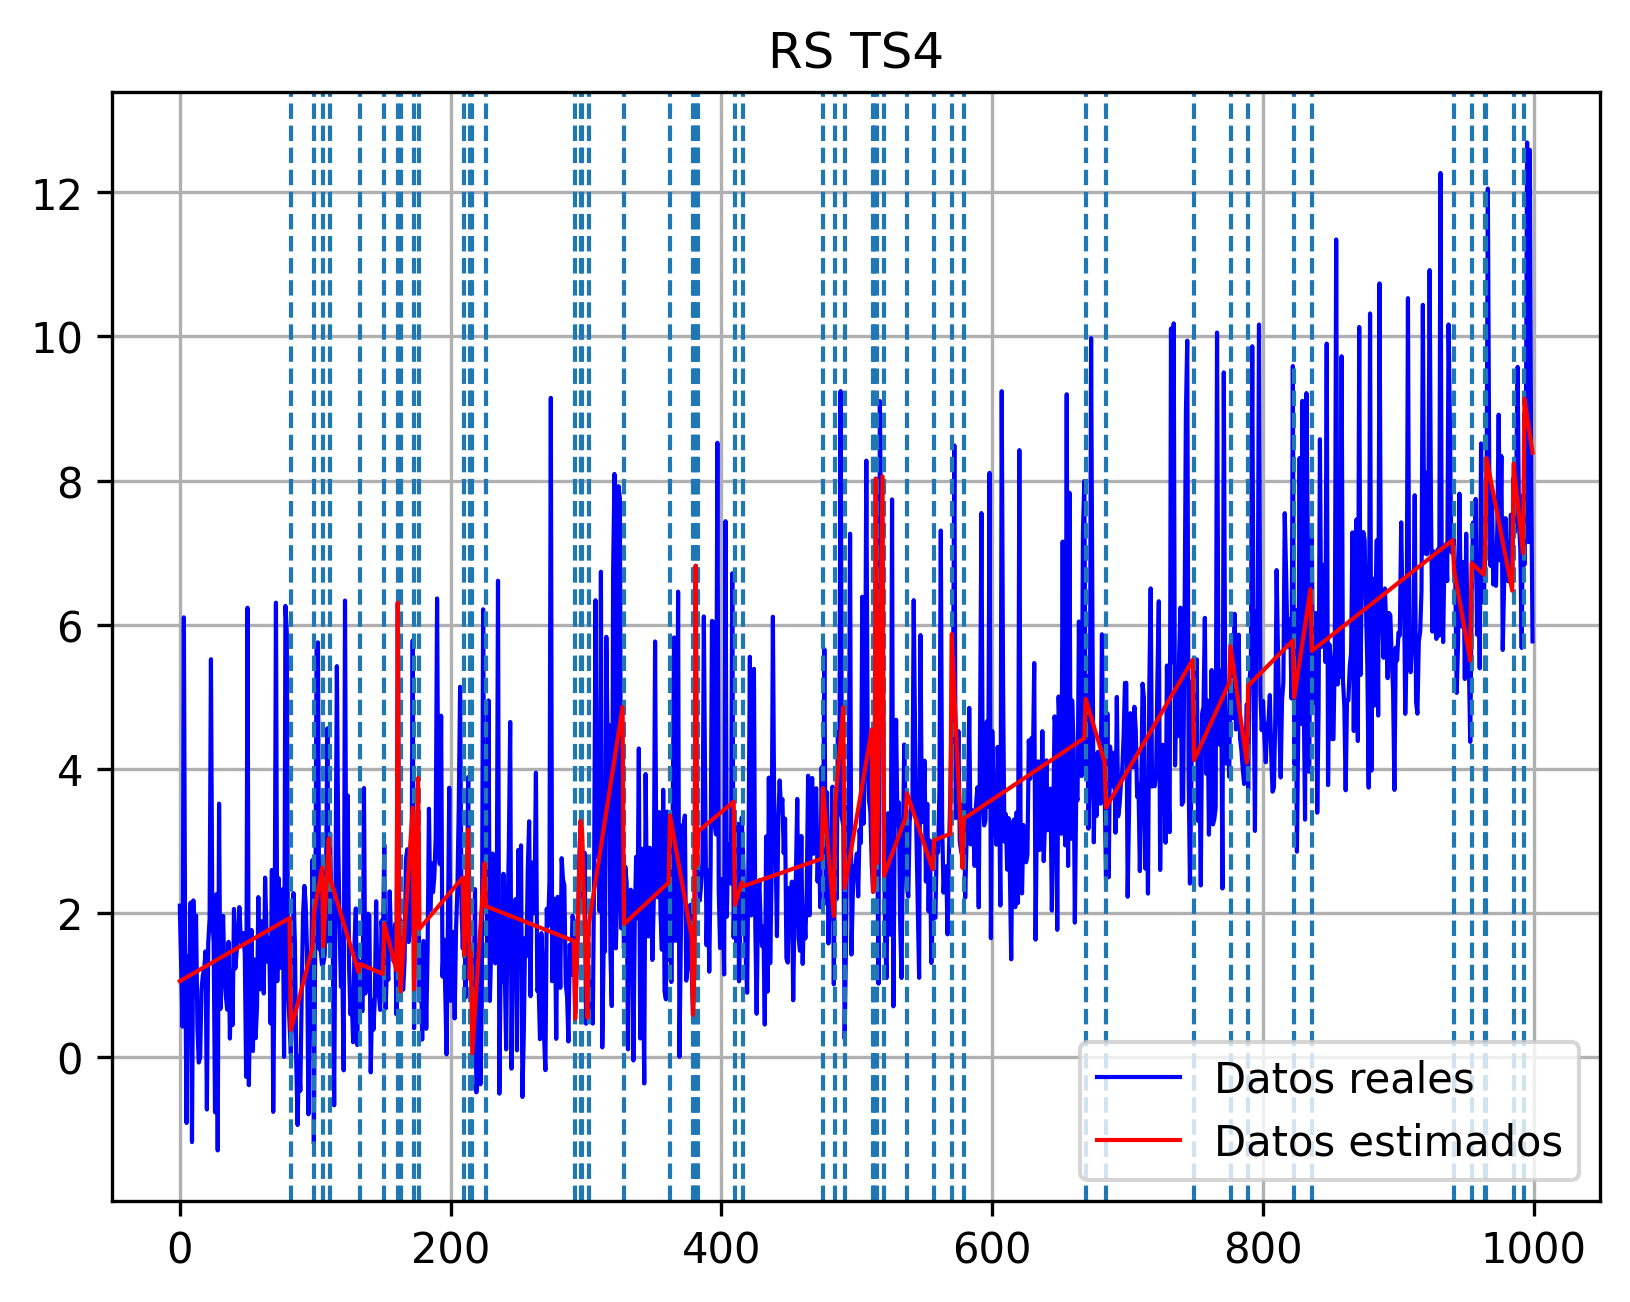
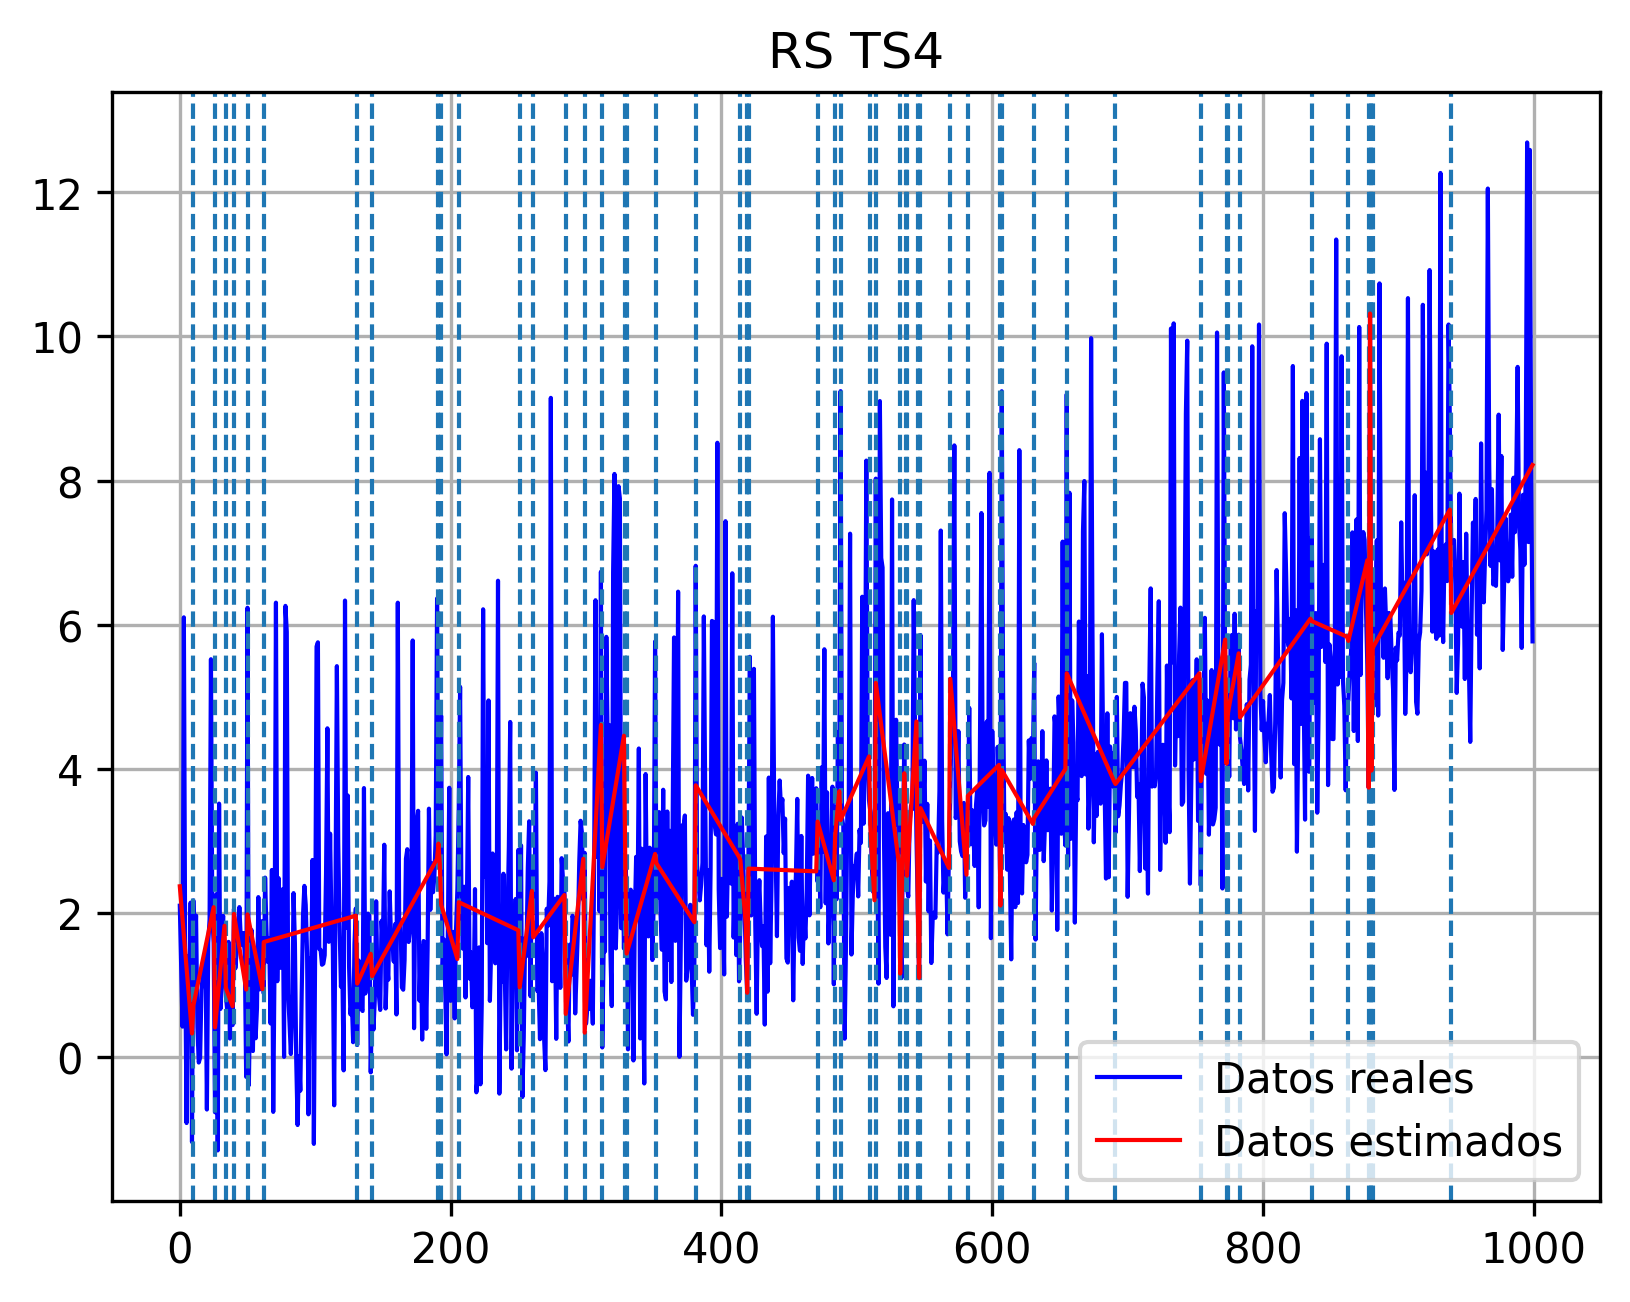
Feat: mean chart of each series added

Changed region(s): [[0.092, 0.0614, 0.9509, 0.9217], [0.8282, 0.8602, 0.8589, 0.9217]]

diff --git a/RS/main.py b/RS/main.py
@@ -6,6 +6,24 @@ from busqueda_aleatoria import randomSearch
 import matplotlib.pyplot as plt
 from linear_regression import estimate_all_points, estimate_all_coef
 
+def mean(serie):
+    means = []
+    for TS in range(len(serie[0])):
+        mean_s=[]
+        for i in range(len(serie)):
+            for j in range(len(serie[0][TS])):
+                if i == 0:
+                    mean_s.append(serie[i][TS][j]['rmse'])
+                else:
+                    mean_s[j] += serie[i][TS][j]['rmse']
+        for i in range(len(mean_s)):
+            mean_s[i] /= len(serie)
+        means.append(mean_s)
+    
+    return means
+
+
+
 def main():
     start = int(input("Introduzca el numero de individuos iniciales: "))
     end = int(input("Introduzca el numero de individuos finales: "))
@@ -29,51 +47,57 @@ def main():
 
 
     #Listas para guardar iters y best de cada serie
-    series_iters=[]
-    series_bests=[]
-    series_times=[]
 
-    for TS in range(len(series)):
-        times=[]
-        iters=[]
-        bests=[]
-        current_serie=series[TS]
-        current_k=k_values[TS]
-        for i in range(start,end,increment):
-            if i==start:
-                best, time, _= randomSearch(current_serie,current_k,increment)
-            else:
-                best, time, _= randomSearch(current_serie,current_k,increment,best)
+    mean_iters=[]
+    mean_bests=[]
+    mean_times=[]
+    for _ in range (20):
+        series_iters=[]
+        series_bests=[]
+        series_times=[]
+        for TS in range(len(series)):
+            times=[]
+            iters=[]
+            bests=[]
+            current_serie=series[TS]
+            current_k=k_values[TS]
+            for i in range(start,end,increment):
+                if i==start:
+                    best, time, _= randomSearch(current_serie,current_k,increment)
+                else:
+                    best, time, _= randomSearch(current_serie,current_k,increment,best)
 
 
-            iters.append(i)
-            bests.append(best.copy())
-            times.append(time)
+                iters.append(i)
+                bests.append(best.copy())
+                times.append(time)
 
-        series_iters.append(iters)
-        series_bests.append(bests)
-        series_times.append(times)
+            series_iters.append(iters)
+            series_bests.append(bests)
+            series_times.append(times)
+        
+        mean_times.append(series_times)
+        mean_bests.append(series_bests)
+        mean_iters.append(series_iters)
+
 
 
 #Graficas
-    #Grafica Iters vs RMSE
+
+    mean_series=mean(mean_bests)
+
     for TS in range(len(series_times)):
-        rmses = [element["rmse"] for element in series_bests[TS]]
-        plt.plot(series_iters[TS],rmses,marker ='o')
-        plt.title(f"RS {files[TS][3:]}")
-        plt.xlabel("Tiempo")
-        plt.ylabel("Mejor RMSE")
-        plt.grid(True)
-        plt.savefig(f"{files[TS][3:]}_ItersvsRMSE.png", dpi=300, bbox_inches='tight')
-        plt.show()
+        plt.title(f"Mean {files[TS][3:]}")
+        plt.plot(series_iters[TS], mean_series[TS], color='blue', linewidth=1, label="medias")
+        plt.savefig(f"{files[TS][3:]}_mean.png", dpi=300, bbox_inches='tight')
         plt.close()
+
 
     #Grafica de puntos resultado
     for TS in range(len(series_times)):
         plt.title(f"RS {files[TS][3:]}")
         #Linea real
         plt.plot(series[TS], color='blue', linewidth=1, label="Datos reales")
-
         #Lineas verticales
         best=series_bests[TS][len(series_bests[TS])-1]['points']
         for i in range(len(best)):
